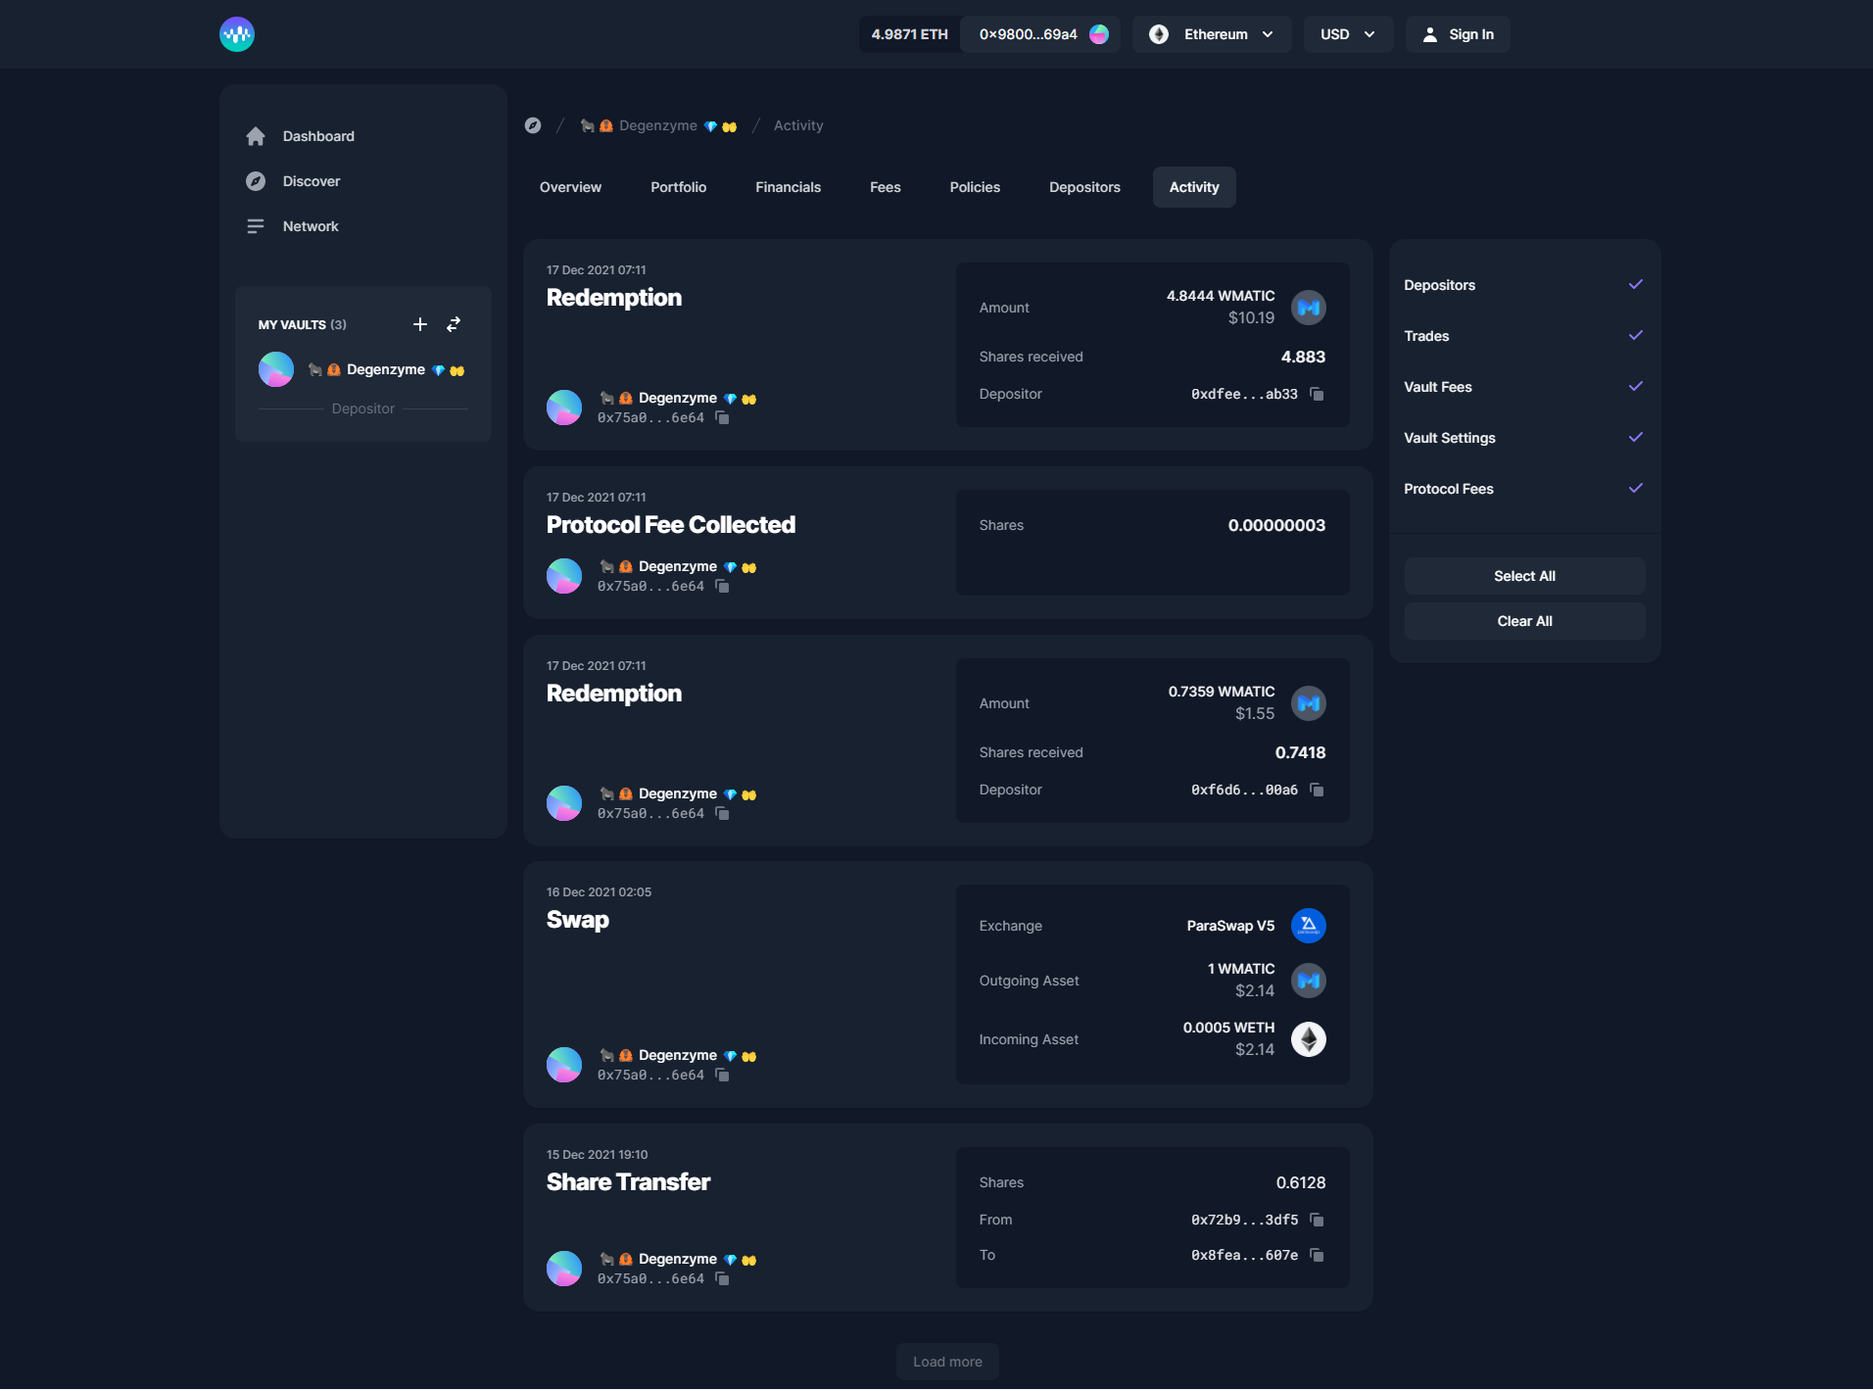
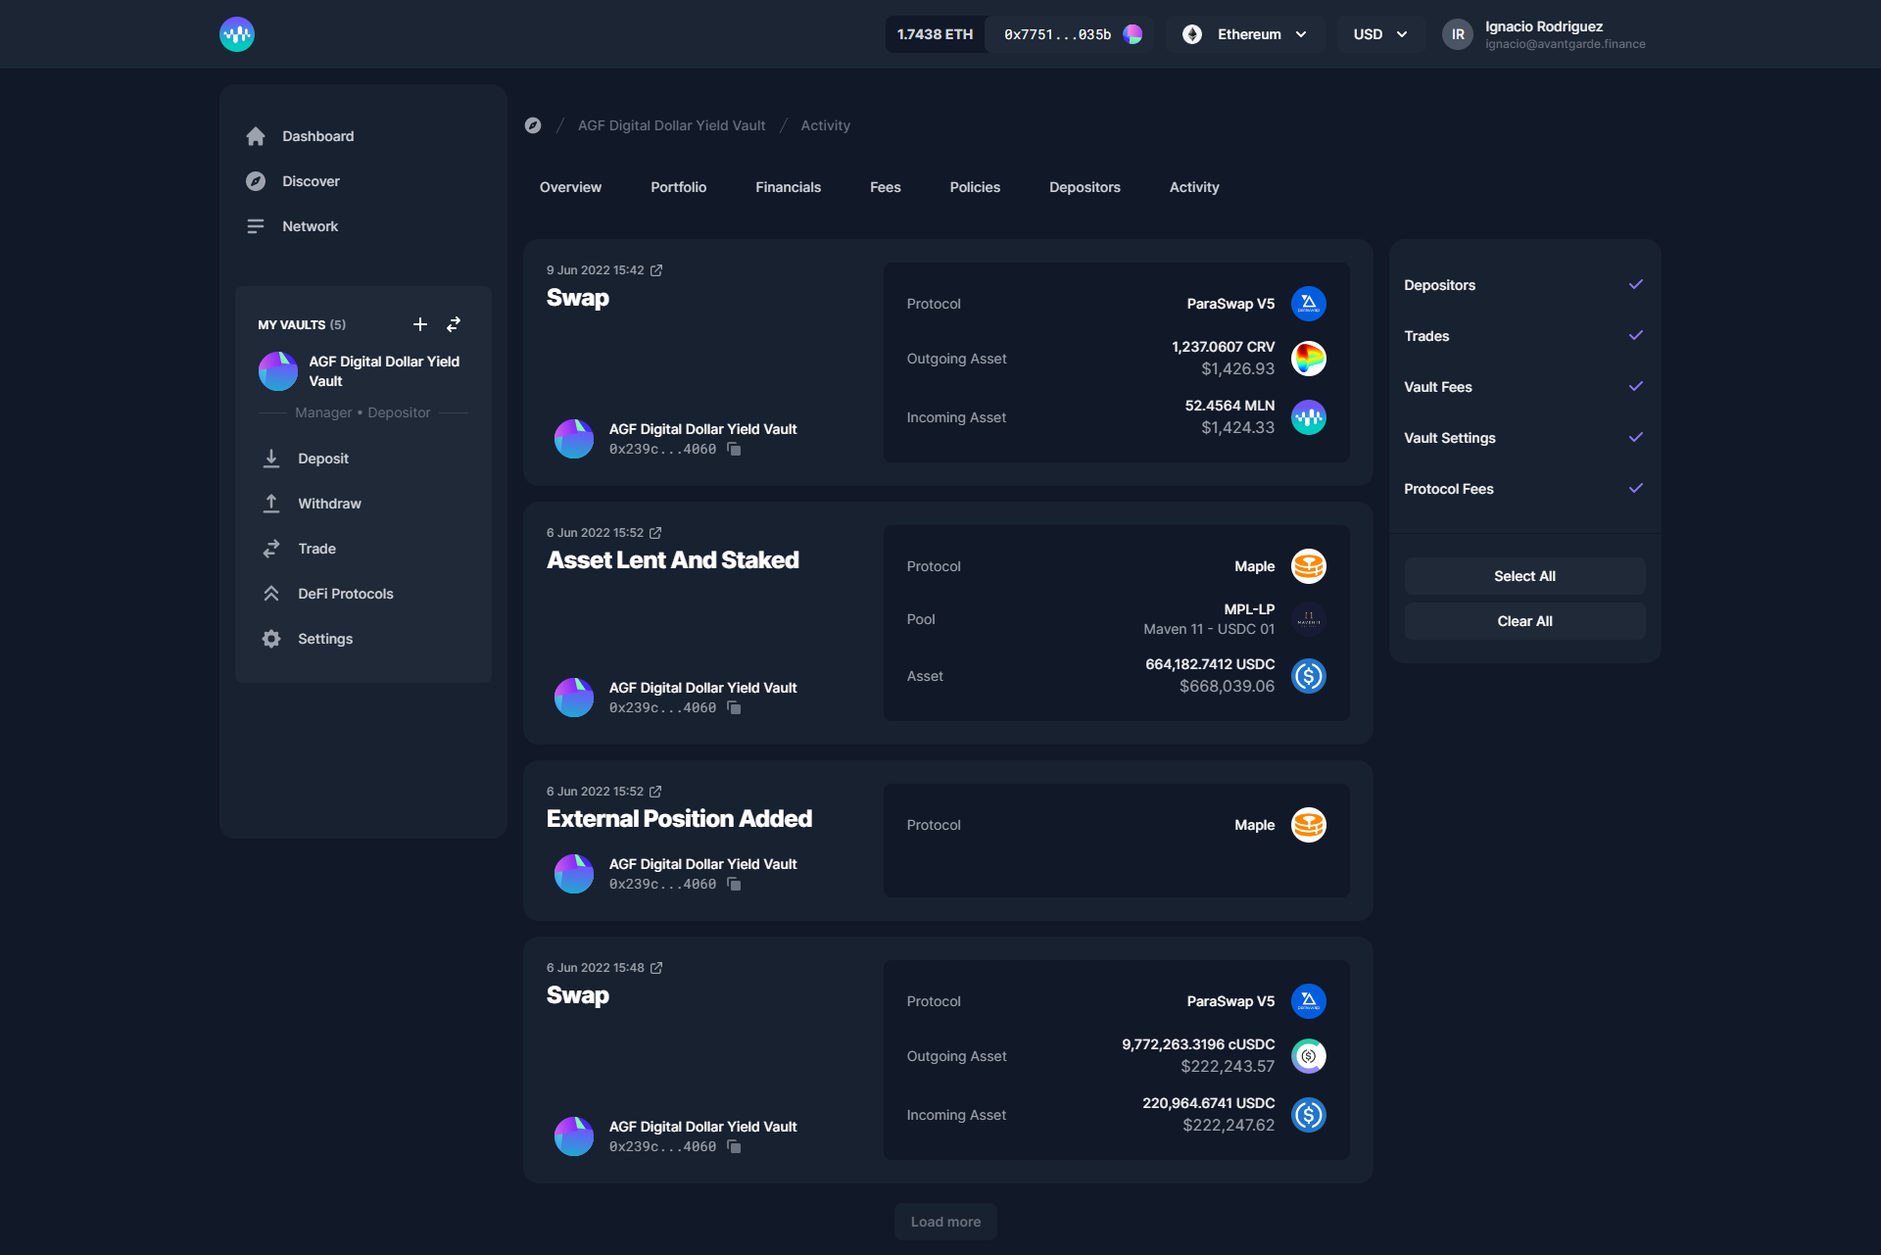
GitBook: [#106] part3

diff --git a/managers/vaults-for-organisations/README.md b/managers/vaults-for-organisations/README.md
@@ -1,0 +1,38 @@
+---
+description: DAOs, companies etc
+---
+
+# Vaults for DAOs & Organisations
+
+Until recently, Enzyme has primarily catered to single Vault Managers owning an Ethereum wallet. This section explores how to create Enzyme products with organisations using Gnosis Safe.
+
+## What is Gnosis Safe?
+
+Gnosis Safe is a multisig wallet which allows organisations to customize how they manage their crypto assets, with the option to require a predefined number of signatures to confirm transactions before they are executed. This helps prevent unauthorized access to organisation-owned crypto.
+
+## **Why Gnosis Safe + Enzyme?** <a href="#b545" id="b545"></a>
+
+You might be asking yourself why would anyone want to use a multisig to manage assets with Enzyme? Here are a few reasons:
+
+* Organisations are able to access a quick & easy way to connect to multiple DEX trading venues (eg. DEXs, aggregators, derivatives), DeFi protocols (eg. depositing to AMM pools, lending) and DeFi benefits (eg. farming or airdrops) _**from**  **one**  **place**._
+* Enzyme provides users with full, easily readable, auditable and transparent reporting over assets being managed.
+* Organisations can delegate trading to 3rd-party for efficiency in a non-custodial way (and revoke it at any time). The 3rd party can also be a trading bot.
+* Organisations can pull in outside investors to invest alongside their strategies and charge optional fees (eg management, performance, entrance all calculated and distributed in an automated way).
+* Gnosis Safe gives Vault managers a way to layer organisational governance structures on top of their products.
+
+Let’s explore a few concrete use-cases that might be interesting:
+
+### **1. DAO Treasury Management** <a href="#89e1" id="89e1"></a>
+
+DAOs often sit on large treasuries which are not being actively managed. It can be challenging to manage a DAO treasury efficiently and track its performance transparently. This is a perfect use-case for Gnosis Safe + Enzyme. Organisations can simply plug their Gnosis Safe into Enzyme and engage with a purpose-built asset management toolkit.
+
+### 2. Crypto Investment Clubs
+
+Investment clubs are groups of individuals who join together to invest together and share resources. In many countries they also benefit from regulatory exemptions. Members of such clubs typically meet on a periodic basis to make investment decisions as a group through a voting process and recording of minutes, or gather information and perform investment transactions. A combination of Gnosis Safe + Enzyme enables you to set one of these up in minutes!
+
+### **3. Eliminating Operational Risk** <a href="#5068" id="5068"></a>
+
+In general, nobody likes operational risk — especially organisations. If a Vault Manager were to compromise his/her private key or become incapacitated there is a question over what happens to the future of their assets. By having a multisig, you can drastically reduce these kinds of operational risks.
+
+The possibilities are endless, those are just a few common use cases of a multisig on Enzyme.
+

diff --git a/managers/vaults-for-organisations/gnosis-safe-ethereum.md b/managers/vaults-for-organisations/gnosis-safe-ethereum.md
@@ -1,0 +1,31 @@
+# Gnosis Safe - Ethereum
+
+### **Step 1: Connect to Enzyme with a multisig.** <a href="#7f3a" id="7f3a"></a>
+
+If you don’t already have a multisig safe, go to the [Gnosis Safe app](https://gnosis-safe.io/app/#/welcome) and follow the instructions to set up your Safe. If you already have one ready, just load it up from the Gnosis app.
+
+Once you’re set up with your Safe, click on Apps -> Wallet Connect.
+
+![](https://miro.medium.com/max/3200/0\*z95AhyUinRM09Fci)
+
+
+
+Now go to the [Enzyme App](http://app.enzyme.finance/) and connect using Wallet Connect. You’ll see a QR code pop up which you need to copy to clipboard. Now go back to the Gnosis Safe page and paste the QR code into the wallet connect box highlighted in the image above.
+
+You’re now connected to Enzyme with your multisig!
+
+### **Step 2: Setting up with Enzyme.** <a href="#7fae" id="7fae"></a>
+
+If you go back to the [Enzyme app](http://app.enzyme.finance/) now, you’ll see you are connected with your multisig wallet! You can now start plugging your organisation into Enzyme. Make sure you are on the “For Vault Managers” launchpad and click “Create”. If in doubt, you can refer to our [user docs](http://userdocs.enzyme.finance/) here or [contact us](https://t.me/enzymefinance).
+
+### **Step 3: Deploying your Enzyme vehicle** <a href="#bba8" id="bba8"></a>
+
+Once you’re done creating your organisation’s connection to Enzyme, you will get prompted to sign a transaction. Submit the transaction and then go back to the Gnosis Safe App. Make sure you are logged in with one of the **multisig** **Owner** addresses and connect with Wallet Connect. It should prompt you to sign a transaction. Now keep repeating this process with other **multisig Owners** until you’ve passed the signing threshold. At that point, your Enzyme vehicle should be deployed on-chain and visible on the Vault Manager launchpad. For more information on what you can do with Enzyme, this might be a good time to [refer our user docs](http://userdocs.enzyme.finance/).
+
+
+
+### Recommendations
+
+Gnosis Safe Approval transactions take time and depending on how you have set up your gnosis safe wallet, you may need additional extra steps. It can be slow and inefficient to pass the multisig threshold every time you need to do a trade or interact with a DeFi protocol on Enzyme. So we’ve come up with a way to delegate trading to one address. The owner of this address can be a bot, a company’s trader or an assigned group delegated by a DAO.
+
+In order to delegate trading to one (or more) addresses, go to the Settings tab from the Vault Manager Launchpad and scroll down until you see Delegate Trading. Enter the Ethereum address and the add user address and submit the transaction. Now just go back to the Gnosis Safe app and repeat the steps provided earlier. Ask the multisig owners to log in with their address, connect via Wallet Connect and sign the pending transaction.

diff --git a/managers/accounting-reporting-fees.md b/managers/accounting-reporting-fees.md
@@ -2,13 +2,23 @@
 
 ## Overview
 
+![](../.gitbook/assets/overview.png)
+
 Your Vault GAV updates in real-time on Enzyme. In other words, you can transparently track historic prices in a provable way. Your performance track record is extremely valuable if you want to scale and monetise.
 
 ## Portfolio
 
-Here you can check your positions, which are updated in real-time, including the handling of deposit subscriptions, redemptions, trading, lending, pools and derivatives.
+![](../.gitbook/assets/portfolio.png)
+
+Here you can check your positions, which are updated in real-time, including the handling of deposit subscriptions, redemptions, trading, lending, pools and derivatives.&#x20;
+
+{% hint style="info" %}
+Enzyme allows you to track up to 20 assets in your portfolio, this limit is due gas costs. You can always track or untrack new assets from Settings > Asset Managment > Tracked Assets.
+{% endhint %}
 
 ## Financials
+
+![](<../.gitbook/assets/financials (1).png>)
 
 Investment performance is not just about GAV though. Most investors care about other metrics too. The good news is that these are all calculated for you within the Enzyme ecosystem and provable from on-chain data. A sample of just a few of the metrics you can get from the financials section can be found in the image below.
 
@@ -36,7 +46,7 @@ Investment performance is not just about GAV though. Most investors care about o
 
 ## **Fees**
 
-![](../.gitbook/assets/overview\_settings.png)
+![](<../.gitbook/assets/fees (3).png>)
 
 We talked about fees in the [Set Up](setup/) section. Once you deploy your Vault to main-net, the protocol is continuously calculating and accruing any fees which are owed to the Vault Manager. Typically you'd need a team of expensive accountants or auditors to do this job but this feature is automated and embedded natively in Enzyme's contract logic.
 
@@ -46,17 +56,19 @@ Here you will also have an overview of the total Gas, the total Expense Ratio, a
 
 ## **Policies**
 
-![](../.gitbook/assets/overview\_policies.png)
+![](<../.gitbook/assets/policies (1).png>)
 
 Here you see a list of the active policies in your vault.
 
 ## **Depositors**
 
-![](../.gitbook/assets/overview\_depositors.png)
+![](<../.gitbook/assets/depositors (1).png>)
 
 Here you see a list of all the depositors in your vault.
 
 ## Activity
+
+![](../.gitbook/assets/activity.png)
 
 The activity tab will help you and your depositors review your past actions, whether they involve trade history, claiming or paying fees, changes on your vault settings, new redeemed or minted shares or management of adapters & external positions.
 

diff --git a/managers/vaults-for-organisations/gnosis-safe-polygon.md b/managers/vaults-for-organisations/gnosis-safe-polygon.md
@@ -1,0 +1,23 @@
+# Gnosis Safe - Polygon
+
+1. &#x20;Go to [app.enzyme.finance](https://app.enzyme.finance/).
+2. On the top right corner, click on **Connect Wallet** and select **WalletConnect**.
+3. Below the QR code, click on “Copy to clipboard”.
+4. On a new browser tab, go to your [Gnosis Safe Wallet](https://gnosis-safe.io/) account.
+5. Navigate to Gnosis **Apps** > **WalletConnect**.
+6. **Paste the QR clipboard** you have previously copied at step 3 and make sure that it connects successfully to Enzyme.
+7. **Go back to the Enzyme App**, you will see that your Gnosis wallet is now connected.
+8. Now you can continue the process of [creating a vault](https://docs.enzyme.finance/managers/setup/vault-types). For an in-depth explainer of all decisions that you need to make creating a vault, you can watch this [video](https://www.youtube.com/watch?v=JfyjfA0pKas\&feature=youtu.be).
+9. Once you have completed the vault creation process and you submit the transaction, make sure you have the WalletConnect app open on your Gnosis. **You will not receive the transaction request to approve if you don't have your WalletConnect App open on Gnosis.**
+
+{% hint style="info" %}
+If you are using Ethereum mainnet, don’t click on Open Dapp, instead, click on “keep using WalletConnect”.
+{% endhint %}
+
+
+
+### Recommendations
+
+Gnosis Safe Approval transactions take time and depending on how you have set up your gnosis safe wallet, you may need additional extra steps. It can be slow and inefficient to pass the multisig threshold every time you need to do a trade or interact with a DeFi protocol on Enzyme. So we’ve come up with a way to delegate trading to one address. The owner of this address can be a bot, a company’s trader or an assigned group delegated by a DAO.
+
+In order to delegate trading to one (or more) addresses, go to the Settings tab from the Vault Manager Launchpad and scroll down until you see Delegate Trading. Enter the Ethereum address and the add user address and submit the transaction. Now just go back to the Gnosis Safe app and repeat the steps provided earlier. Ask the multisig owners to log in with their address, connect via Wallet Connect and sign the pending transaction.

diff --git a/protocol-fees.md b/protocol-fees.md
@@ -1,0 +1,27 @@
+# Protocol Fees
+
+The protocol fee is a 25 bps taxation on the AUM held by a vault in Sulu (v4), the proceeds are burnt to introduce scarcity to **$MLN**.
+
+The way it works, is simple, the fee is accrued in the form of shares, to an Enzyme Council Contract `ProtocolFeeReserveProxy:`
+
+* **Ethereum:** [0xb7460593bd222e24a2bf4393aa6416bd373995e0](https://etherscan.io/address/0xb7460593bd222e24a2bf4393aa6416bd373995e0)
+* **Polygon:**  [0xf0bfee2a93b0a1f9c5f6c1d731a6cf1308d68b2d](https://polygonscan.com/address/0xf0bfee2a93b0a1f9c5f6c1d731a6cf1308d68b2d)
+
+The fee is accrued whenever the vault receives a deposit, shares are redeem or a migration/reconfiguration happns.&#x20;
+
+To optimise the ease of fee collection and of passively receiving $MLN to burn, this release uses a shares buyback mechanism:
+
+1. Protocol fee shares are minted at an inflated rate (e.g., 50 bps) above the effective target rate (e.g., 25 bps).
+2. Funds can use **$MLN** (i.e., burn) to buy back (i.e., burn) the collected shares at a discount (e.g., 50%).
+3. Funds that take advantage of shares buybacks ultimately pay the effective target rate (25 bps) while funds that do not (and leave the Enzyme Council and protocol with the burden of finding other mechanisms for converting shares to $MLN) pay the inflated rate (50 bps).&#x20;
+
+### Auto Buy Back
+
+The Auto Buy Back feature, allows vault managers to automatically buy back protocol fee shares whenever they are collected. For this to work, there needs to be **$MLN** available in the vault, as it will attempt to use the **$MLN** to atomically buy back the full amount of protocol fee shares collected.
+
+To enable the Auto Buy Back feature, please go to **Settings** > **Fees** > **Auto Buyback Protocol Shares** > and click on the button that says "**Enable Shares Buyback**"
+
+You can find more techical details in the [Sulu Specs](https://specs.enzyme.finance/topics/protocol-fee).
+
+
+

diff --git a/managers/account.md b/managers/account.md
@@ -8,12 +8,14 @@ Accounts are strictly optional.
 
 ## My Account
 
+![](../.gitbook/assets/acc.png)
+
 If you click on your name on the top right corner of your screen, you will see your account details. You can also add wallets to your account here. Adding wallets to your account allows for aggregated views of both your performance as an investor in Enzyme vaults, as well as all of the vaults that you manage.
 
-## Security
-
-Here you can improve the security of your account, which we highly recommend. You can set up a Multi-Factor Authentication, adding an extra layer of security to your Enzyme account, and please make sure you backup your codes.
+Here you can personalize and manage your account. From updating your avatar, changing your email address and your name or username, to adding your social media links and website.
 
 ## **Settings**
 
-Here you can personalize and manage your account. From updating your avatar, changing your email address and your name or username, to adding your social media links and website.
+![](../.gitbook/assets/set.png)
+
+Here you modify your signing methods and you can improve the security of your account, which we highly recommend. You can set up a Multi-Factor Authentication, adding an extra layer of security to your Enzyme account, and please make sure you backup your codes.

diff --git a/investors/browsing-the-enzyme-universe.md b/investors/browsing-the-enzyme-universe.md
@@ -2,17 +2,21 @@
 
 ## **Account**
 
+![](../.gitbook/assets/acc.png)
+
 Creating an account is strictly optional, and allows for an aggregate view of the vaults in which you own shares. Simply click the `Sign In` button on the top right corner of the app and follow the prompts to create your account. Once that's done, on the `My Account` tab, you'll be able to add connected wallets. Using these connections, the App can populate the dashboard below.&#x20;
 
 ## **Dashboard**
+
+![](../.gitbook/assets/dashboard.png)
 
 The dashboard is available when you've created an account and logged into the Enzyme app. Here you can see your deposits, vaults you manage and your recent activity.
 
 ## **Discover**
 
+![](../.gitbook/assets/screencapture-app-enzyme-finance-discover-2022-07-08-13\_45\_30.png)
+
 Explore the Enzyme universe from the discover page. Here you will get the network status and various vaults that are active across the Enzyme ecosystem. Is a great place to stay up to date with the Enzyme.
 
-## **Activity**
-
-Here you can see network-wide activity on Enzyme; deposits, withdrawals, vault creations, shares transfers and trades.
+****
 

diff --git a/managers/vaults-for-organisations/delegate-trading.md b/managers/vaults-for-organisations/delegate-trading.md
@@ -1,0 +1,12 @@
+---
+description: Assigning Asset Managers
+---
+
+# Delegate Trading
+
+If you are using a Gnosis Wallet. it can become slow and inefficient to pass the multisig threshold every time you need to do a trade or interact with a DeFi protocol on Enzyme. So we’ve come up with a way to delegate trading to one address. The owner of this address can be a bot, a company’s trader or an assigned group delegated by a DAO. The interesting thing about this permission is that it only gives permissions for trading and that permission can be revoked any time by the organisation.
+
+![](<../../.gitbook/assets/delegate trading.png>) ![](../../.gitbook/assets/assetm.png)
+
+In order to delegate trading to one (or more) addresses, go to Settings > Asset Management > Asset Managers, click on the button to "Add Asset Managers". Enter the Ethereum address and Add Managers and submit the transaction. Now just go back to the Gnosis Safe app and repeat the steps provided earlier. Ask the multisig owners to log in with their address, connect via Wallet Connect and sign the pending transaction.
+

diff --git a/SUMMARY.md b/SUMMARY.md
@@ -36,7 +36,10 @@
     * [Borrow, Rewards & Airdrops](managers/trade/defi-protocols/borrow-rewards-and-airdrops.md)
 * [Vault Menu](managers/accounting-reporting-fees.md)
 * [Signaling an Upgrade](managers/signal-an-upgrade.md)
-* [Vaults for DAOs & Organisations](managers/vaults-for-organisations.md)
+* [Vaults for DAOs & Organisations](managers/vaults-for-organisations/README.md)
+  * [Gnosis Safe - Ethereum](managers/vaults-for-organisations/gnosis-safe-ethereum.md)
+  * [Gnosis Safe - Polygon](managers/vaults-for-organisations/gnosis-safe-polygon.md)
+  * [Delegate Trading](managers/vaults-for-organisations/delegate-trading.md)
 * [Account](managers/account.md)
 * [Risks and Nuances](managers/risks-and-nuances.md)
 
@@ -51,6 +54,7 @@
 * [Making an Investment](making-an-investment.md)
 * [Monitoring Your Vaults](monitoring-your-vaults.md)
 * [Redeeming](redeeming-your-investment.md)
+* [Protocol Fees](protocol-fees.md)
 * [Risks and Nuances](risks.md)
 
 ## Developers

diff --git a/browsing-vault-info.md b/browsing-vault-info.md
@@ -16,7 +16,7 @@ The drop-down menu in the top right corner of the chart allows you to show the p
 
 ### Portfolio
 
-![](.gitbook/assets/portfolio.png)
+![](<.gitbook/assets/portfolio (1).png>)
 
 On the portfolio tab, you'll find the vault's current positions.
 
@@ -56,7 +56,7 @@ The Fees section lays out exactly how much you'll pay in fees to buy and own sha
 
 ### Policies
 
-![](<.gitbook/assets/policies (1).png>)
+![](<.gitbook/assets/policies (1) (1).png>)
 
 On the Policies section, you will see if the vault has any policies such as **Allowed Investors, Investment Limits, Restricted Assets** and others.
 
@@ -68,6 +68,6 @@ Here you will see a list of all vault’s depositors.
 
 ### Activity
 
-![](.gitbook/assets/activity.png)
+![](<.gitbook/assets/activity (1).png>)
 
 Here you can see the activity from the Vault, deposits, withdrawals, trades, and paid out fees.
